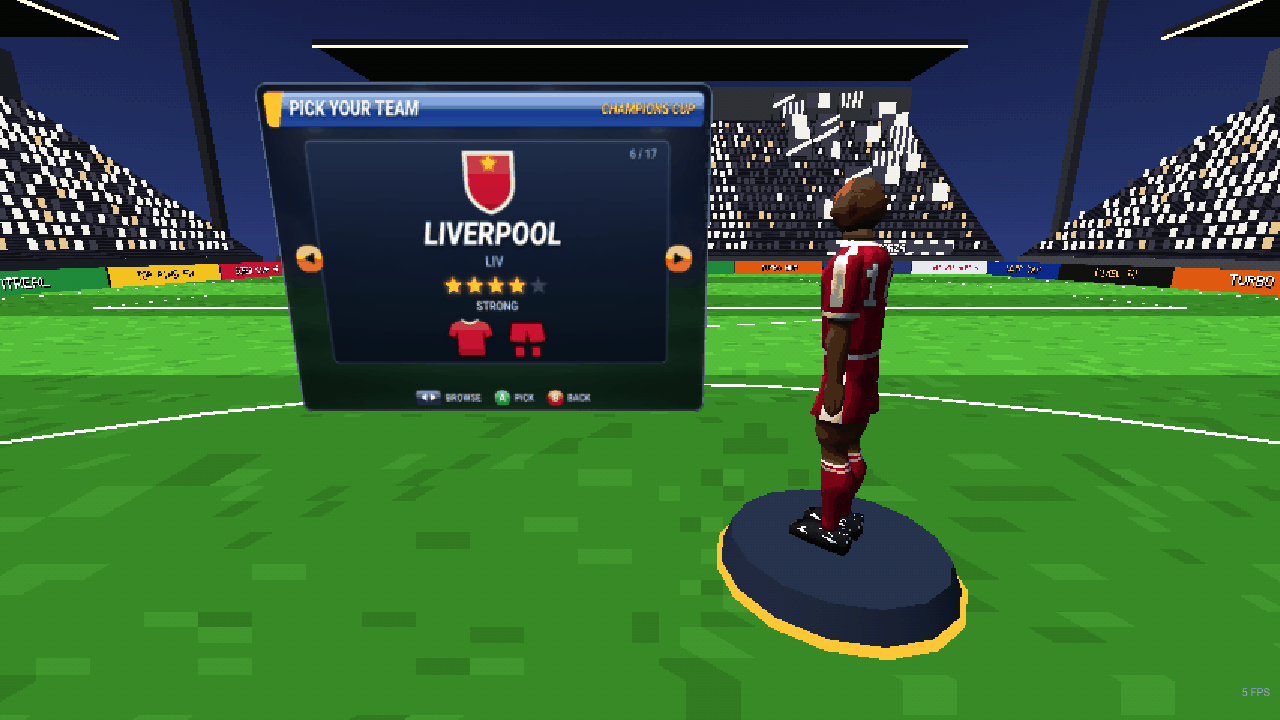
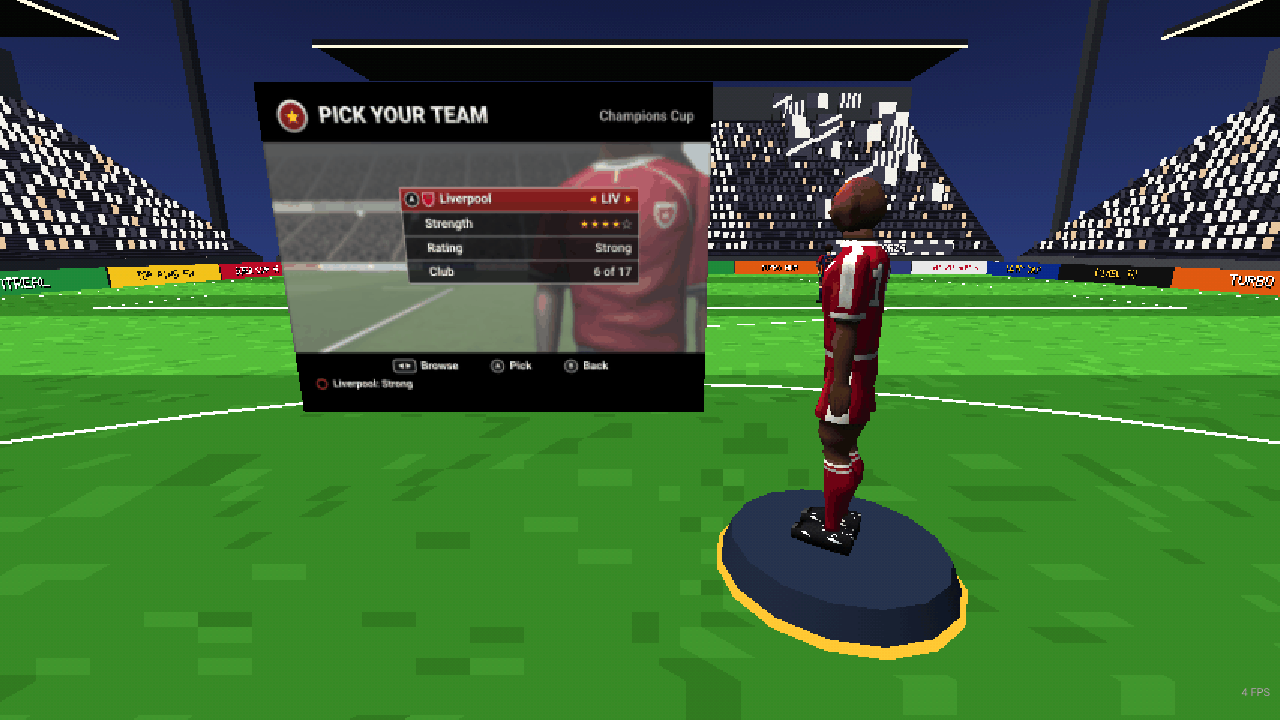
UI: brighter backdrop, smaller title, fresh shots and notes for the letterbox look
Claude-Session: https://claude.ai/code/session_01764GRfy3zSjDAkha1D9YaD

diff --git a/game/ps2/menuscene.js b/game/ps2/menuscene.js
@@ -62,9 +62,9 @@ export function renderBackdrop(renderer, kit, key, w = 1024, h = 492) {
   // out of focus, washed out a little, a touch darker so white type reads over it
   const out = document.createElement('canvas'); out.width = w; out.height = h;
   const o = out.getContext('2d');
-  o.filter = `blur(${Math.max(1, Math.round(w / 400))}px) saturate(0.62) contrast(0.88) brightness(1.04)`;
+  o.filter = `blur(${Math.max(1, Math.round(w / 400))}px) saturate(0.6) contrast(0.85) brightness(1.1)`;
   o.drawImage(raw, 0, 0); o.filter = 'none';
-  o.fillStyle = 'rgba(225,228,232,0.12)'; o.fillRect(0, 0, w, h);     // the hazy, high-key wash of a daylight front end
+  o.fillStyle = 'rgba(225,228,232,0.16)'; o.fillRect(0, 0, w, h);     // the hazy, high-key wash of a daylight front end
   cache.set(id, out);
   return out;
 }

diff --git a/game/ps2/ui.js b/game/ps2/ui.js
@@ -216,7 +216,7 @@ export function header(ctx, W, top, s, right = null) {
   const cy = top * 0.56, r = top * 0.28;
   mark(ctx, W * 0.075, cy, r);
   const tx = W * 0.075 + r + W * 0.025;
-  title(ctx, s, tx, cy, top * 0.42, (right ? W * 0.62 : W * 0.88) - tx);
+  title(ctx, s, tx, cy, top * 0.38, (right ? W * 0.62 : W * 0.88) - tx);
   if (right) text(ctx, right, W - W * 0.04, cy, { size: top * 0.24, align: 'right', color: PAL.muted, max: W * 0.3 });
 }
 // The bottom band: button hints in a row (glyph + plain label), a status line under them.

diff --git a/docs/notes-ui.md b/docs/notes-ui.md
@@ -1,125 +1,126 @@
 # Notes: the '04 menus and HUD (branch `ui`)
 
-A reskin of every menu and HUD canvas, from the '96 pixel font and 90s logo to a 2003-04 console football look,
-taken as a style only: bold condensed italic sans-serif, glossy gradient bars, rounded tabs, dark glass panels over a
-soft floodlit backdrop, an amber glowing picked row, controller-button chips in the hints, team chips (a nation's flag
-from `game/ps2/flags.js`, a club's invented shield in its kit colours with a star). No real logos, layouts, sponsors
-or competitions copied. Every screen, option, input and behaviour is as it was; `rules/` is untouched.
+Second pass. Kenny on the first (glossy blue bars, amber glow, condensed italic type): "that's ugly as hell". His
+reference is the front-end menu of a 2003-04 console football game. Everything was restyled to that language, taken
+as a style and never its content: no publisher or game logos or names, no real shirt, sponsor or crest. Screens,
+options, input and flow are as they were; `rules/` is untouched.
+
+## The look (all in `game/ps2/ui.js`)
+
+- Letterbox. A solid black band across the top (16% of the height) holds the title, set in heavy upright white sans
+  with a faint silver gradient, left-aligned after our own mark: a gold star on maroon inside a silver ring. A solid
+  black band across the bottom (20%) holds the button hints (a round outlined glyph and a plain white label, like
+  "(A) Select   (B) Back") and a status line with a small red ring in front of it.
+- The middle band is a picture (`game/ps2/menuscene.js`): our own '04 stand, pitch and lines in daylight on the
+  left, and on the right a close crop of one of our '04 players' shirt (`buildPlayer2`: our kit sheet with the
+  invented shield, no wordmark). It's rendered once per kit into a render target, read back into a canvas, blurred,
+  desaturated and washed toward light grey. Before a team is picked it wears Munich's red; after that it wears your
+  team's kit. The title page uses the same picture.
+- Lists are one compact bordered box. Rows are near-black at 76% opacity, 2 px apart on light grey separators,
+  with a 2 px light outline and 6 px corners. Type is plain bold white, upright and mixed case, at a fixed indent.
+  The picked row is flat maroon (#962c25 to #6e1c19), with the A glyph at its left and small gold up/down arrows at
+  its right. Option rows show gold left/right arrows round the value instead. Small gold stars are the markers
+  (team strength, the top two in a group).
+- Palette: black, white, greys, that maroon, gold accents. No gloss, glow, italics, squeezed type or flares.
+- Mixed case comes from the game's upper-case strings through `tc` (title case) and `sc` (sentence case). Kept as
+  they are: words with digits, single letters (button names), VR, PTS and PS1. Words of team names keep a
+  capital ("V Munich"). In result lines team ids stay upper case.
+
+## Screens
+
+- **Mode select:** the five modes as rows, a little right of middle. The picked mode's description goes on the
+  status line.
+- **Settings:** two boxes. Game settings sit on the left; on the right is the Locker (a dim header row, then Ball,
+  Boots, Big Heads). Values sit at the right of each row, with arrows on the picked one. Up and down move through
+  both boxes in the same order as before.
+- **Team select:**
+  - World Cup: the map fills the middle band in a dark outlined box. Nations are small kit-coloured pins; the picked
+    one has a maroon pin, a pulsing white ring and a maroon label. A single picked row at the bottom left shows
+    the flag, name and stars.
+  - Clubs: a stack showing the club with its shield and id (◀ ▶ round the id), its strength stars, its rating
+    and "n of 17".
+- **Cup hub:**
+  - Groups: a table in a stack. The header row is dim; your team's row is maroon; the top two have a gold star.
+    The other results sit in a box under it.
+  - Knockouts: the bracket as small outlined dark boxes with light connector lines. Your team is maroon, losers
+    are grey.
+  - The status line reads "Next: ENG v GER, Germany · Continues 3", with hints "(A) Play (B) Quit to menu". The
+    old blinking "PRESS A TO PLAY" is now a plain hint (A still plays).
+- **Messages** (full time, cup results, training done): a centred outlined box with a maroon edge, lines in
+  sentence case, and the A hint saying what it does ("Try again", "Lift the cup", "Menu", "Continue").
+- **HUD:**
+  - Scoreboard bug: flat and small. A dark translucent bar with a thin outline: chip, id, the score in a maroon
+    cell, id, chip, then a divider and the clock (maroon "GOAL!" when you score). Points sit in a small box under
+    it.
+  - Banners: a dark bar with the headline, which is maroon when it's yours and red text when it's bad. Sub-lines
+    go in a box under it.
+  - Pass tag: the number on a dark tag, with "number | Lob" on lobs.
+  - Subtitles: a dark outlined box, up to two lines, sentence case.
+  - Training card: a dark box with a maroon title row ("4/19 Knock-on ... (X) Skip"), the instructions, and a
+    maroon progress bar.
+  - Also restyled: the radar, the dance lane, the trophy sign, the REPLAY tab and the stadium board.
+- **Title page** (`index.html`): the same bands and picture. Enter VR and Play in Browser are a row stack (maroon
+  with the A glyph and arrows on hover or focus). How to play is an outlined box with a maroon header row. The
+  bottom band holds hints and a status line ("Press start", best score). No downloaded fonts.
+- **Kick-off overlap (fixed):** the banner now sits a little above where you're looking (pitch clamped to
+  -0.35..0.12 rad) instead of a fixed +0.35 m. In the browser, whose camera looks down, it was sitting on the
+  stadium board. In the headset it's where it was when you look level.
 
 ## The year
 
-`YEAR` in `game/ps2/brand.js` is `'04` (Kenny hasn't decided '96 vs '04). It feeds the title page (`[data-year]`,
-the tab title), the logo on the menus, the World Cup's name in the menus and hub (`WORLD CUP '04`) and the PS1
-trophy plate in `game/trophy.js`. The mode is still called WORLD CUP (Kenny's name for it; the brief says invent
-competition names, but renaming a mode is his call, not a reskin's). `rules/cup.js` has '96 in a comment only.
-
-## What exists
-
-- `game/ps2/ui.js`: the shared style. Palette (`PAL`), `font` / `text` (system font stack Roboto, Inter, Helvetica
-  Neue, Arial; squeezed sideways in code to 0.86 so it reads condensed whatever font the browser has, then squeezed
-  to 0.62 and shrunk to fit a `max` width), `wrap`, `rr`, `panel` (dark glass), `gloss` (the glossy bar, blue /
-  amber / grey / any two colours, optional glow), `tab`, `rowHighlight`, `backdrop` (painted once per size: night sky,
-  blurred floodlights, a crowd band, mown stripes, darkened and vignetted), `header`, `hints` (A green, B red, X
-  blue, Y yellow discs, key caps for others), `stars`, `teamChip`, `shirt`, `logo`. Three side: `uiTex`
-  (linear filtering and mipmaps, the PS1 game used hard pixels), `uiMat` (unlit, no fog, no tone mapping),
-  `uiPlane`.
-- `game/ps2/brand.js`: `YEAR`, `NAME`, `applyBrand()` (run by `index.html` before the game loads).
-- `game/ps2/menudraw.js`: the menu screens as pure painters: mode select (logo, five glossy buttons, the picked
-  mode's description), settings and locker (two glass panels, a LOCKER tab, `◀ value ▶` on the picked row),
-  team select (world map for nations with the flag chip, name and stars over it; one club at a time with its
-  shield, stars, a shirt and shorts in its kit, glowing ◀ ▶ buttons and n / 17), the cup hub (continues as three
-  lit balls, the stage, a group table with flag chips and the top two marked green, or the two-sided bracket with
-  connector lines, and the NEXT fixture bar with both chips), message screens (full time, cup results, training
-  done; lines wrap instead of shrinking to a 1x pixel font).
-- `game/ps2/hudpaint.js`: the scoreboard bug, the stadium board, banners (headline on a bar by tone: amber good,
-  red bad, blue info; up to three lines on glass under it), the pass target's tag, the subtitle, the training card,
-  the radar.
-- `game/menus.js` now only owns the panel, turntable, selection and input; it paints through `menudraw.js` and only
-  when something on screen changed (screen, selection, blink phase, settings). `MODES` and `ROWS` are exported for
-  the look page. The turntable's plinth is steel with an amber ring.
-- `game/worldmap.js` redrawn in the same style at any size (soft ocean, lit land with an edge, kit-coloured pins,
-  a pulsing amber ring and a glossy label on the picked nation).
-- `game/hud.js`, `commentary.js`, `training.js`, `celebration.js` (dance lane, stick figures as drawn lines on dark
-  discs), `replay.js` (the CRT's REPLAY tab), `trophy.js` (the ceremony's sign) moved onto `ui.js`. `hud.js`'s unused
-  `buildPanel` is gone.
-- `index.html`: the title page in the same style. The Google Fonts link (Racing Sans One, Press Start 2P) and the CRT
-  scanlines are gone; it's system fonts and CSS gradients only. The browser HUD's two boxes became the bug canvas
-  (`#bug`, the same canvas the headset shows).
-- Tools: `tools/uilook.html` + `tools/uilook.js` paint every canvas flat with made-up data; `node tools/uishots.mjs
-  out/dir [name ...]` writes each as `name.png` (full size) and `name-vr.png` (the width it has in a Quest 3 eye at
-  framebuffer scale 0.7, taken as 11 px per degree, smoothed down like a mipmapped texture). `node tools/uigame.mjs
-  out/dir [menus|match|dance|fulltime|ceremony|training]` screenshots the real game in headless Chromium (title,
-  menus, a cup match's kick-off banner, bug and subtitle, a goal banner and the replay CRT, the dance lane, full
-  time, the trophy sign, a training card).
-
-## Changes you'd notice beyond the look
-
-- Scoreboard bug: new in the headset, a small plane on the camera, top left of your view (0.3 m wide at 0.72 m, about
-  25° left and 19° up, tilted to face your eye), only while playing and not in training. Home chip, short name,
-  score, away short name and chip (cup) or your goals (Score Attack), the clock (GOAL! in amber when you score),
-  points under it. One extra draw call in play. In the browser it replaces the two boxes at the top.
-- Pass target tag: the LOB tag is now a pill over whoever you'd pass to, with his number (amber), and `number | LOB`
-  in blue when the pass will go over the top. That's the "name / number bar": players have no names, so it's numbers.
-- Power: kept as the ring round the reticle (CLAUDE.md: Kenny dropped the separate power bar as redundant), so no
-  bar was added, and the ring is as it was. The pass ring is as it was.
-- Subtitles wrap onto two lines (they used to be cut off at about 36 characters). The strip sits a little lower to
-  keep its top where it was.
-- Message screens wrap long lines rather than dropping them to the small font.
+`YEAR` in `game/ps2/brand.js` is `'04` (Kenny hasn't decided). It sets the title on the page and the menus, the
+tab title, "World Cup '04" and the PS1 trophy plate.
 
 ## Numbers
 
-- Canvases (was → now): menu 256x192 → 1024x768 on the same 2.2 x 1.65 m panel; banner 192x64 → 768x256; training
-  card 224x50 → 896x208; subtitle 224x14 → 1024x128 (plane 0.64 x 0.04 → 0.64 x 0.08); stadium board 128x48 →
-  512x192; radar 64x60 → 128x120; dance lane 256x80 → 512x160; trophy sign 192x40 → 768x160; REPLAY tag 48x10 →
-  256x64; LOB tag 24x9 → 256x96; bug 640x128 (new).
-- Texture memory: about 3.1 MB for the menu panel plus a third for mipmaps (was 0.2 MB); about 6 MB for everything.
-- Uploads: the menu is repainted and uploaded only when something on it changes: a blink twice a second where a
-  prompt blinks (hub, message screens, club arrows), four times a second on the world map (the pulse), else on input.
-  Each is a 1024x768 upload with mipmaps; on the Quest that's maybe a few ms, a hitch to watch for (see below).
-  Every frame in play: the radar (128x120, no mipmaps) as before; the dance lane (512x160, no mipmaps) while dancing.
-  The board and bug repaint when the clock's second changes. Banners, tags, subtitles and the training card on change.
-- Paint times in headless Chromium (software): a menu screen 2 to 10 ms (the backdrop is painted once, 40 to 70 ms),
-  the HUD pieces 0.5 to 2 ms each.
-- Legibility (at the headset widths from `uishots`): the menus at 505 px across: the smallest type (settings rows,
-  table cells, hints) is 13 to 15 px tall there, every line readable in `docs/ui-shots/after-settings-vr.png`
-  and `after-bracket-vr.png`. Banner, subtitle and training card at 480 to 527 px: 14 to 30 px type. The bug at
-  259 px: names, score and clock 16 px, the points 15 px; the smallest thing in the HUD.
-- Draw calls: +1 in play in the headset (the bug). Everything else replaced a mesh one for one.
+- Backdrop: built and rendered once per kit. In headless software rendering it took 1.2 to 7 s, most of it
+  building the player and painting his sheets. On the Quest expect a few hundred ms: once at boot (title page) and
+  once each time you return to the menus with a new team. It's a 1024x492 render target plus a 2 MB readback, then
+  cached. One extra scene (stand x2, pitch, lines, sky, the player) lives in memory, never drawn in play.
+- Menu canvas: 1024x768 on the 2.2 x 1.65 m panel. It's repainted and uploaded only on input, plus 4 times a
+  second on the world map for the pulse; nothing else blinks now.
+- Paint times (headless): menu screens 2 to 10 ms, HUD pieces 0.5 to 3 ms.
+- Legibility at headset size (11 px per degree; `*-vr.png`): menus at 505 px across, where row type is about
+  14 px and hints and status lines about 13 px. Banner, subtitle and training card are at 480 to 527 px. The bug
+  is 259 px with 18 px names and score; its points strip is the smallest thing, at about 14 px.
+- Draw calls: unchanged from the first pass (the bug is +1 in the headset during play).
 
-## Pictures (`docs/ui-shots/`)
+## Pictures
 
-Before (smoke test, browser): `before-title.png`, `before-menu.png`, `before-settings.png`, `before-match.png`,
-`before-training.png`. After, flat at full size: `after-mode.png`, `after-settings.png`, `after-worldmap.png`,
-`after-club.png`, `after-group.png`, `after-bracket.png`, `after-fulltime.png`, `after-hud.png` (bugs, banners,
-subtitle, training card, radar, tags, board); at headset size: `after-settings-vr.png`, `after-bracket-vr.png`,
-`after-hud-vr.png`. After, in the game: `after-game-*.png` (title, menu, settings, worldmap, clubselect, group,
-bracket, match-kickoff, goal-banner, replay-crt, dance, fulltime, ceremony, training). The PNGs are quantised to 256
-colours to keep them small; `node tools/uishots.mjs` and `node tools/uigame.mjs` remake them at full quality.
+- **Side by side with the reference:** `/home/claude/ui-shots/compare-final.png`. This is outside the repo,
+  because the reference is someone else's screenshot.
+- **Before:** `docs/ui-shots/before-*.png`.
+- **After, flat:** `after-mode.png`, `after-settings.png`, `after-worldmap.png`, `after-club.png`,
+  `after-group.png`, `after-bracket.png`, `after-fulltime.png`, `after-hud.png`.
+- **After, at headset size:** `after-mode-vr.png`, `after-settings-vr.png`, `after-bracket-vr.png`,
+  `after-hud-vr.png`.
+- **After, in the game:** `after-game-*.png` (title, menu, settings, worldmap, clubselect, group, bracket,
+  match-kickoff, goal-banner, replay-crt, dance, fulltime, ceremony, training).
+
+Remake them with `node tools/uishots.mjs dir` (flat, `KIT=TEAM` for another shirt) and `node tools/uigame.mjs dir`.
+
+Honest comparison with the reference:
+- Same: band proportions, row stack, outline weight, maroon pick with glyph and arrows, hints and status line,
+  and a backdrop with a shirt crop on the right.
+- Ours is darker in the stands (the '04 stand is under a roof) and the shirt crop is less tight.
+- Our title is upright where theirs leans slightly, as asked.
+- Our rows are a little taller and the type bigger than theirs, for the headset.
 
 ## Short / not done
 
-- Fonts: Roboto is assumed on the Quest browser; if it isn't there the stack falls back to Arial / sans-serif. The
-  squeeze keeps widths sane either way, but the look was only seen with Roboto (headless Chromium here has it).
-- The PS1 bits around the UI stay PS1: the turntable plinth, the CRT box, the trophies' engraved plates (pixel font),
-  the pass and power rings and the reticle (`ringTex` / `reticleTex`, hard pixels), the ultras' banners (crowd art,
-  not UI). The browser still renders the 3D at 480 lines (`LINES` in `display.js`), so in-world panels look soft in
-  the browser; the canvases themselves are sharp.
-- The setting is still called PS1 WOBBLE (an option, not look; rename it when PS1 is dropped).
-- Pre-existing, not changed: in the browser the radar and key line stay on screen during the trophy ceremony; the
-  training card and the TRAINING banner overlap at kick-off of training.
-- The bracket marks a shoot-out win as `0P` (as before).
+- The turntable plinth and the replay screen's casing are still PS1 shapes, recoloured only. The pass and power
+  rings and the reticle are unchanged.
+- The browser still renders the 3D at 480 lines, so in-world panels look soft there.
+- Training instructions are cased as one text, so a line that starts a new sentence without a full stop starts in
+  lower case ("W A S D to run / the ball stays at your feet").
+- The setting is still called PS1 Wobble.
+- Fonts: Roboto is assumed on the Quest browser (the fallback is Arial / sans-serif).
 
 ## Needs a headset
 
-1. Open the game, ENTER VR. Main menu: is the type crisp and readable at arm's length, does the glow read, any
-   shimmer on the glossy bars as you move your head (mipmaps should stop it)?
-2. SETTINGS: can you read every row and the hints at the bottom without leaning in?
-3. WORLD CUP: the map pulse and the label; then the hub's group table, and in a knockout the bracket's smallest
-   numbers.
-4. In a match: the bug top left. Is it in view without being in the way, readable without turning your eyes hard,
-   and is the angle right (it's on your face, so it never moves)? If it's too far out, move `bug.m.position` in
-   `hud.js` in toward the middle. Kick-off banner, a goal banner, the subtitle (two lines on a long one), the pass
-   tag with the number and LOB.
-5. Watch fps in the menus while the prompts blink and on the world map (a 1024x768 upload with mipmaps 2 to 4 times a
-   second). If it hitches, drop the blink there or the menu canvas to 768x576.
-6. Training card, the dance lane on a hat trick, the trophy sign.
+1. Menus: is the type crisp at panel distance? Does the backdrop read as a soft stadium and shirt, or as mush?
+2. Is there a hitch as the backdrop renders: at boot, and when you come back to the menus after picking a team?
+3. World map and the bracket: can you read the smallest numbers?
+4. In a match: the bug top left (readable, not in the way?). The kick-off banner: does it now sit under the board
+   when you look level and when you look down at the ball? Also check the subtitle, pass tag and training card.
+5. FPS while on the world map (4 uploads a second).
